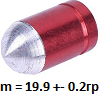
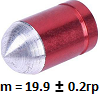
- Добавлена текстура бруска - Добавлен транспортир и подогнаны углы отклонения бруска - Название на кнопки изменено на русское - Знаки "+-" в надписях изменены на "±" - Пистолет заменен на пружинный

Changed region(s): [[0.51, 0.81, 0.66, 0.93]]

diff --git a/main.py b/main.py
@@ -1,12 +1,13 @@
 import pygame
 import random
+import time
 
 pygame.init()
 pygame.display.set_caption("Измерение скорости пули с помощью баллистического маятника")
-PISTOL = pygame.image.load('img/pistol.jpg')
-PISTOL_STARTED = pygame.image.load("img/pistol_started.jpg")
+PISTOL = pygame.image.load('img/pistol.png')
+PISTOL_STARTED = pygame.image.load('img/pistol_started.png')
 START = pygame.image.load('img/start.png')
-SMOKE = pygame.image.load("img/smoke.jpg")
+PROTRACTOR = pygame.image.load("img/transportir.png")
 EMPTY_ALLUMINIUM_BULLET = pygame.image.load("img/empty_alluminium.png")
 ALLUMINIUM_BULLET = pygame.image.load("img/alluminium.png")
 STEEL_BULLET = pygame.image.load("img/steel.png")
@@ -15,7 +16,7 @@ BRASS_BULLET = pygame.image.load("img/brass.png")
 ALTMARK = pygame.image.load("img/altmark.jpg")
 INFO = pygame.image.load("img/info.png")
 ICON = pygame.image.load("img/icon.png")
-# TICKER = pygame.image.load("img/ticker.png")
+TICKER = pygame.image.load("img/ticker.png")
 bullet_coords = [(700, 2), (810, 2), (920, 2), (1030, 9), (1140, 2)]
 bullet_weights = [5.2, 6.8, 13.6, 13.8, 19, 9]
 bullet_colors = ["grey", "blue", "black", "orange", "red"]
@@ -50,7 +51,7 @@ class Lab:
                 if event.type == pygame.MOUSEBUTTONDOWN:
                     pos = event.pos
                     # Нажатие кнопки Start
-                    if 1200 < pos[0] < 1280 and 530 < pos[1] < 600 and not self.started:
+                    if 1180 < pos[0] < 1280 and 550 < pos[1] < 600 and not self.started:
                         self.start()
                     # Нажатие на одну из иконок пуль
                     for bullet in bullet_coords:
@@ -69,6 +70,22 @@ class Lab:
                     # Генерация угла отклонения бруска
                     self.angle = random.randrange(*angles[self.bullet_chosen]) / 10
                     self.started = False
+            if self.ticker.time is not None:
+                if abs(int(self.ticker.time) - int(time.strftime("%S", time.gmtime()))) > 5:
+
+                    left, top, width, height = self.ticker.get_coords()
+                    if left < ticker_coords[0]:
+                        if (abs(ticker_coords[0] - left) / FPS) > 0.01:
+                            left += abs(ticker_coords[0] - left) / FPS
+                        else:
+                            left = ticker_coords[0]
+
+                    if top < ticker_coords[1]:
+                        if (abs(ticker_coords[1] - top) / FPS) > 0.01:
+                            top += abs(ticker_coords[1] - top) / FPS
+                        else:
+                            top = ticker_coords[1]
+                    self.ticker.set_coords((left, top))
             self.clock.tick(60)
             self.render()
             pygame.display.flip()
@@ -77,14 +94,14 @@ class Lab:
         self.screen.fill(pygame.Color("White"))
         # Установка
         pygame.draw.line(self.screen, pygame.Color('black'), (250, 120), (700, 120), width=5)
+        self.screen.blit(PROTRACTOR, (300, 125))
         pygame.draw.line(self.screen, pygame.Color('black'), (550, 120),
                          (self.ticker.left + self.ticker.width - 50, self.ticker.top), width=2)
         pygame.draw.line(self.screen, pygame.Color('black'), (400, 120), (self.ticker.left + 50, self.ticker.top),
                          width=2)
-        pygame.draw.rect(self.screen, pygame.Color('black'), self.ticker.rect(), width=0)
+        self.screen.blit(TICKER, self.ticker.get_coords()[:2])
         # Кнопки
-        # self.screen.blit(TICKER,(self.ticker.get_coords()[:2]))
-        self.screen.blit(START, (1200, 530))
+        self.screen.blit(START, (1180, 550))
         self.screen.blit(EMPTY_ALLUMINIUM_BULLET, bullet_coords[0])
         self.screen.blit(ALLUMINIUM_BULLET, bullet_coords[1])
         self.screen.blit(STEEL_BULLET, bullet_coords[2])
@@ -98,16 +115,13 @@ class Lab:
         # Пистолет
         if self.started:
             self.screen.blit(PISTOL_STARTED, self.pistol.coords)
-            self.screen.blit(SMOKE, (self.pistol.coords[0] - 15, self.pistol.coords[1] - 100))
         else:
             self.screen.blit(PISTOL, self.pistol.coords)
-        pygame.draw.line(self.screen, pygame.Color("black"), (self.pistol.coords[0], self.pistol.coords[1] + 65),
-                         (self.pistol.coords[0] + 100, self.pistol.coords[1] + 65),
-                         width=2)
         # Угол отклонения
-        font = pygame.font.SysFont("comicsansms", 30)
-        text = font.render(f"α = {str(self.angle)}", True, pygame.Color("Black"))
-        self.screen.blit(text, (500, 500))
+        if self.angle != 0:
+            font = pygame.font.SysFont("comicsansms", 30)
+            text = font.render(f"α = {str(self.angle)}°", True, pygame.Color("Black"))
+            self.screen.blit(text, (300, 500))
         # Предупреждение о невыбранной пуле
         if self.set_warning_message:
             font = pygame.font.SysFont("comicsansms", 20)
@@ -136,7 +150,7 @@ class Pistol():
         self.coords = (ticker_coords[0] + ticker_coords[2] + 200, ticker_coords[1] + (ticker_coords[3] / 4))
 
     def shoot(self):
-        current_bullet_coords = [self.coords[0] + 20, self.coords[1] + 20]
+        current_bullet_coords = [self.coords[0] + 5, self.coords[1] + 10]
         self.bullet = Bullet(current_bullet_coords)
 
 
@@ -155,6 +169,7 @@ class Bullet():
         if ticker.left <= self.coords[0] <= ticker.left + ticker.width and ticker.top <= self.coords[
             1] <= ticker.top + ticker.height:
             self.coords[0] = ticker.left + ticker.width
+            self.coords[1] = ticker.top + ticker.height / 4 + 10
             return True
         return False
 
@@ -164,6 +179,7 @@ class Bullet():
 
 class Ticker():
     def __init__(self, coords, bullet):
+        self.time = None
         self.left = coords[0]
         self.top = coords[1]
         self.width = coords[2]
@@ -173,22 +189,24 @@ class Ticker():
         self.y_velocity = 1
         self.acceleration = 10
         if bullet == 0:
-            self.velocity = 130
-            self.y_velocity = 1
+            self.velocity = 290
+            self.y_velocity = 10
         elif bullet == 1:
-            self.velocity = 160
-            self.y_velocity = 1.5
+            self.velocity = 300
+            self.y_velocity = 10
         elif bullet == 2:
-            self.velocity = 320
-            self.y_velocity = 3
+            self.velocity = 370
+            self.y_velocity = 15
         elif bullet == 3:
-            self.velocity = 330
-            self.y_velocity = 3
+            self.velocity = 370
+            self.y_velocity = 14
         elif bullet == 4:
-            self.velocity = 350
-            self.y_velocity = 4
-        else:
-            self.velocity = 500
+            self.velocity = 390
+            self.y_velocity = 20
+
+    def set_coords(self, coords):
+        self.left = coords[0]
+        self.top = coords[1]
 
     def rect(self):
         """
@@ -205,6 +223,8 @@ class Ticker():
         return self.left, self.top, self.width, self.height
 
     def update_velocity(self):
+        if self.time is None:
+            self.time = time.strftime("%S", time.gmtime())
         self.velocity -= self.acceleration
         if self.velocity < 0:
             self.velocity = 0
